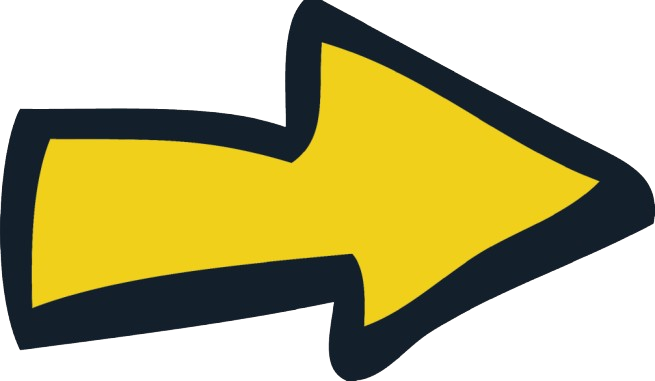
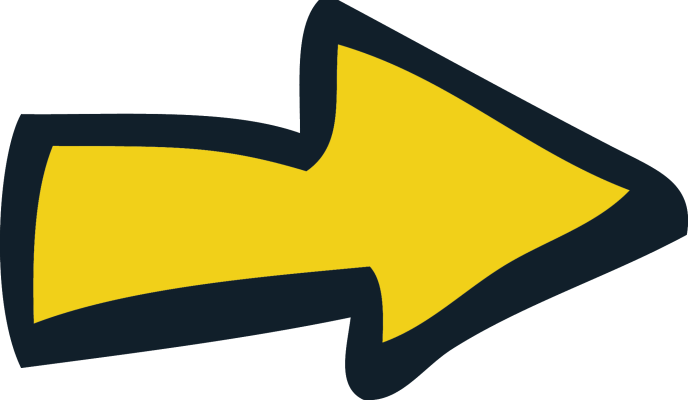
Toques finais no catalogo

diff --git a/src/pages/catalogue.tsx b/src/pages/catalogue.tsx
@@ -3,6 +3,7 @@ import Footer from "../components/footer";
 import "../style/catlogue_style.css";
 import CatlogCollection from "../components/catlog_colec";
 import seta from "../images/seta.png"
+import seta_2 from "../images/seta_2.png"
 
 export default function Catalogue() {
   return (
@@ -13,7 +14,7 @@ export default function Catalogue() {
             <div className="catlog_content">
               <CatlogCollection />
           <div className="botao_cat">
-            <button className="but_1"><img src={seta} width={100}/></button>
+            <button className="but_1"><img src={seta_2} width={100} /></button>
             <button className="but_2"><img src={seta} width={100}/></button>
           </div>
             </div>

diff --git a/src/style/catlogue_style.css b/src/style/catlogue_style.css
@@ -62,14 +62,15 @@
   }
 
 .botao_cat{
-  flex-direction: row
+  flex-direction: row;
+  gap: 2;
 }
   .but_1{
-    rotate: 180deg;
+    gap: 2;
   }
   .but_2,.but_1{
     background: none;
     border: none;
-    margin: 0;
-    padding: 0;
+    padding-left: 10px;
+    padding-right: 10px;
   }
